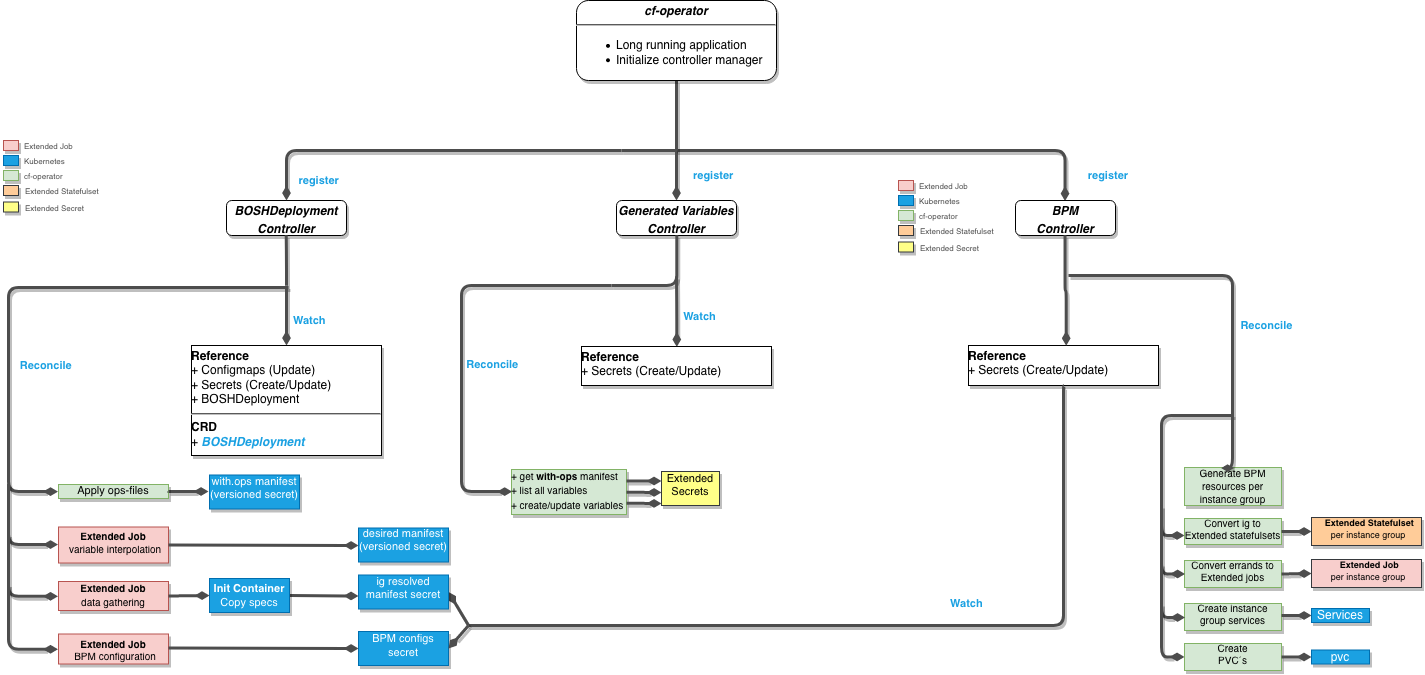
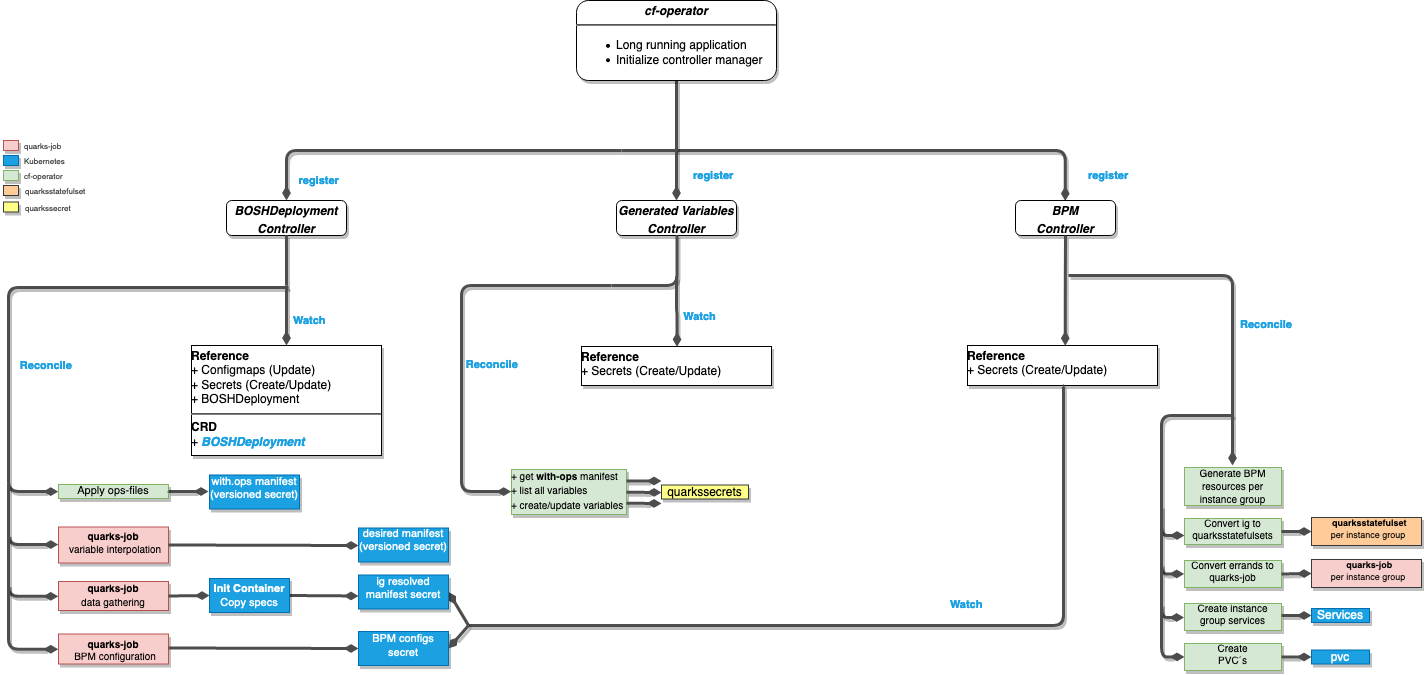
Update diagrams to use quarks naming convention
This includes quarks controllers new names
Same case with the CRDs.
Update documentation, to use the png files correct
names.

diff --git a/docs/controllers/quarks_statefulset.md b/docs/controllers/quarks_statefulset.md
@@ -15,10 +15,7 @@
          9. [Extended Upgrade Support](#extended-upgrade-support)
          10. [Detects if StatefulSet versions are running](#detects-if-statefulset-versions-are-running)
          11. [AZ Support](#az-support)
-         12. [Active/passive model](#activepassive-model)
-      2. [Statefulset Cleanup Controller](#statefulset-cleanup-controller)
-         1. [Watches](#watches-in-cleanup-controller)
-         2. [Reconciliation](#reconciliation-in-cleanup-controller)
+      2. [QuarksStatefulSet Active-Passive Controller](#quarksstatefulset-active-passive-controller)
    3. [Relationship with the BPM component](#relationship-with-the-bdpl-component)
    4. [`QuarksStatefulSet` Examples](#`quarks-statefulset`-examples)
 
@@ -32,12 +29,12 @@ The **QuarksStatefulset** component is a categorization of a set of controllers,
 
 Figure 1 illustrates a **QuarksStatefulset** component diagram that covers the set of controllers it uses.
 
-![qsts-component-flow](quarks_qstscomponent_flow.png)
+![qsts-component-flow](quarks_estscomponent_flow.png)
 *Fig. 1: The QuarksStatefulset component*
 
 ### **_QuarksStatefulSet Controller_**
 
-![qsts-controller-flow](quarks_qstscontroller_flow.png)
+![qsts-controller-flow](quarks_eseccontroller_flow.png)
 *Fig. 2: The QuarksStatefulset controller*
 
 This controller will generate a Kubernetes statefulset for each `instance_group` defined in the BOSH manifest. This `Statefulset` will also include a set of Kubernetes services, so that each component can be accessed on specific ports.
@@ -190,7 +187,23 @@ If zones are set for an `QuarksStatefulSet`, the following occurs:
   AZ_INDEX="zone index"
   ```
 
-#### Active/passive model
+#### Restarting on Config Change
+
+`QuarksStatefulSets` can be automatically updated when the environment/mounts have changed due to a referenced
+`ConfigMap` or a `Secret` being updated. This behavior is controlled by the `updateOnConfigChange` flag which defaults to `false`.
+
+#### Watches in cleanup controller
+
+- `StatefulSet`: Creation/Update
+
+#### Reconciliation in cleanup controller
+
+It will delete statefulsets with old versions, only after the new statefulset version instances are up and running.
+
+### **_QuarksStatefulSet Active-Passive Controller_**
+
+![qsts-activepassivecontroller-flow](quarks_estsactivepassivecontroller_flow.png)
+*Fig. 3: The QuarksStatefulset active/passive controller*
 
 Active/passive model is application model that have multiple running instances, but only one instance is active and all other instances are passive (standby). If the active instance is down, one of the passive instances will be promoted to active immediately.
 
@@ -226,30 +239,13 @@ spec:
 
 The controller manages this active probing and provides pod designation label to the service's selectors. Any requests sent to the service will then only be sent to the active pod.
 
-#### Restarting on Config Change
-
-`QuarksStatefulSets` can be automatically updated when the environment/mounts have changed due to a referenced
-`ConfigMap` or a `Secret` being updated. This behavior is controlled by the `updateOnConfigChange` flag which defaults to `false`.
-
-### **_Statefulset Cleanup Controller_**
-
-![qstscleanup-controller-flow](quarks_stscleanupcontroller_flow.png)
-*Fig. 4: The Statefulset Cleanup controller*
-
-#### Watches in cleanup controller
-
-- `StatefulSet`: Creation/Update
-
-#### Reconciliation in cleanup controller
-
-It will delete statefulsets with old versions, only after the new statefulset version instances are up and running.
 
 ## Relationship with the BDPL component
 
-![bpm-qsts-relationship](quarks_bpm_and_qsts_flow.png)
-*Fig. 5: Relationship with the BPM controller*
+![bpm-qsts-relationship](quarks_bpm_and_ests_flow.png)
+*Fig. 4: Relationship with the BPM controller*
 
-Figure 5 illustrates the interaction of the **BPM** Controller with the **QuarksStatefulSet** Controller. Once the BPM controller consumes the data persisted in secrets from the `QuarksJob` Component, it will use that data to generate new `QuarksStatefulset` instances. When these resources are generated, the QuarksStatefulSet controller will be watching and trigger its reconciliation loop.
+Figure 4 illustrates the interaction of the **BPM** Controller with the **QuarksStatefulSet** Controller. Once the BPM controller consumes the data persisted in secrets from the `QuarksJob` Component, it will use that data to generate new `QuarksStatefulset` instances. When these resources are generated, the QuarksStatefulSet controller will be watching and trigger its reconciliation loop.
 
 ## `QuarksStatefulSet` Examples
 

diff --git a/docs/controllers/quarks_secret.md b/docs/controllers/quarks_secret.md
@@ -26,12 +26,12 @@ The **QuarksSecret** component is a categorization of a set of controllers, unde
 
 Figure 1, illustrates the component and associated set of controllers.
 
-![qsec-component-flow](quarks_qseccomponent_flow.png)
+![qsec-component-flow](quarks_eseccomponent_flow.png)
 *Fig. 1: The QuarksSecret component*
 
 ### **_QuarksSecret Controller_**
 
-![qsec-controller-flow](quarks_qseccontroller_flow.png)
+![qsec-controller-flow](quarks_eseccontroller_flow.png)
 *Fig. 2: The QuarksSecret controller*
 
 The **QuarksSecret** Controller will get a list of all variables referenced in a BOSH manifest with ops files applied, and will use this list of variables to generate the pertinent `QuarksSecret` instances.
@@ -103,7 +103,7 @@ The CertificateSigningRequest controller watches for `CertificateSigningRequest`
 
 ## Relationship with the BDPL component
 
-![bdpl-qjob-relationship](quarks_gvc_and_qsec_flow.png)
+![bdpl-qjob-relationship](quarks_gvc_and_esec_flow.png)
 *Fig. 4: Relationship between the Generated V.  controller and the QuarksSecret component*
 
 Figure 4 illustrates the interaction of the **Generated Variables** Controller with the **QuarksSecret** Controller. When reconciling, the Generated Variables Controller lists all variables of a BOSH manifest(basically all BOSH variables) and generates an `QuarksSecret` instance per variable, which will trigger the **QuarksSecret** Controller.
